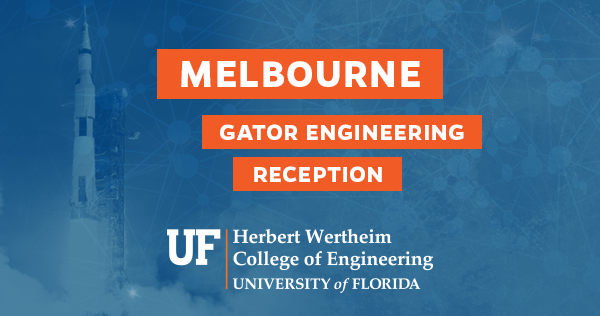
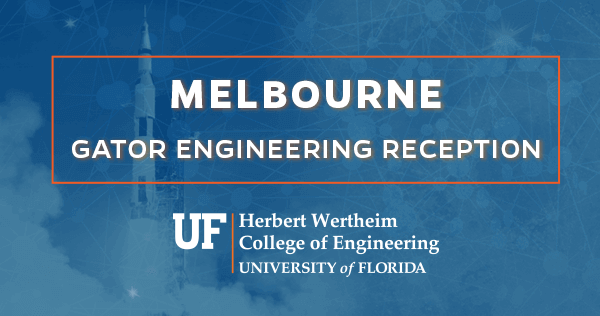
Copy changes (50th anniversary language) and change header image

diff --git a/alumni-engagement/melbourne-reception/invite-inlined.html b/alumni-engagement/melbourne-reception/invite-inlined.html
@@ -267,7 +267,7 @@
 				<table border="0" align="center" cellpadding="0" cellspacing="0" class="container-table" style="font-family: Arial, Helvetica, sans-serif;font-size: 16px;width: 600px;border-collapse: collapse;">
 					<tr>
 						<td class="img" bgcolor="#ffffff" style="padding-top: 0;padding-left: 0;padding-bottom: 0;padding-right: 0;font-family: 'gentona', Helvetica, Arial, sans-serif;font-weight: 300;font-size: 12px;">
-							<img src="https://www.eng.ufl.edu/eblasts/alumni-engagement/melbourne-reception/images/jul-2019-header.png" width="600" height="316" border="0" align="left" class="header-image" alt="Melbourne Gator Engineering Reception" style="height: auto;display: block;margin: 0;padding: 0;border: 0;max-width: 600px;vertical-align: bottom;outline: none;text-decoration: none;image-rendering: crisp-edges;">
+							<img src="https://www.eng.ufl.edu/eblasts/alumni-engagement/melbourne-reception/images/jul-2019-melbourne.png" width="600" height="316" border="0" align="left" class="header-image" alt="Melbourne Gator Engineering Reception" style="height: auto;display: block;margin: 0;padding: 0;border: 0;max-width: 600px;vertical-align: bottom;outline: none;text-decoration: none;image-rendering: crisp-edges;">
 						</td>
 					</tr>
 					<tr>
@@ -281,18 +281,23 @@
 								</tr>
 								<tr>
 									<td class="body" valign="top" style="padding-top: 0;padding-left: 0;padding-bottom: 0;padding-right: 0;font-family: 'gentona', Helvetica, Arial, sans-serif;padding: 9px 0px;font-size: 16px;line-height: 20px;color: #404040;">
-										<p style="margin-top: 0px;margin: 0;padding: 0;">Please join fellow Gator Engineers for a special alumni and friends reception in Melbourne.</p>
+										<p style="margin-top: 0px;margin: 0;padding: 0;">This year, as the world celebrates the 50th anniversary of the first man landing on the moon, we are reminded that it took 400,000 engineers and nearly $24 billion in the 1960s to meet the challenge.</p>
 									</td>
 								</tr>
 								<tr>
 									<td class="body" valign="top" style="padding-top: 0;padding-left: 0;padding-bottom: 0;padding-right: 0;font-family: 'gentona', Helvetica, Arial, sans-serif;padding: 9px 0px;font-size: 16px;line-height: 20px;color: #404040;">
-										<p style="margin-top: 0px;margin: 0;padding: 0;">Dean <strong>Cammy R. Abernathy, Ph.D.</strong>, and engineering department chairs will share key advancements at the college and how, together, we will build, design and lead solutions to transform the future.</p>
+										<p style="margin-top: 0px;margin: 0;padding: 0;">With that same spirit, our engineering faculty, in multidisciplinary collaborations, are working today to solve the challenges of our own moonshots.</p>
 									</td>
 								</tr>
 								<tr>
-									<td class="h2" valign="top" align="center" style="padding-top: 0;padding-left: 0;padding-bottom: 0;padding-right: 0;font-family: 'gentona', Helvetica, Arial, sans-serif;font-weight: normal;letter-spacing: 2px;font-size: 16px;line-height: 24px;text-transform: uppercase;color: #595959;padding: 0.5em 0 0;">
-										<h2 style="font-family: 'gentona', Helvetica, Arial, sans-serif;font-weight: normal;letter-spacing: 2px;font-size: 16px;line-height: 24px;text-transform: uppercase;color: #595959;padding: 0;margin: 0;">&ldquo;Today our concern must be with that future. For the world is changing...I believe that the times require imagination and courage and perseverance. I'm asking each of you to be pioneers towards that New Frontier.&rdquo;<br>
-										&mdash;John F. Kennedy</h2>
+									<td class="body" valign="top" style="padding-top: 0;padding-left: 0;padding-bottom: 0;padding-right: 0;font-family: 'gentona', Helvetica, Arial, sans-serif;padding: 9px 0px;font-size: 16px;line-height: 20px;color: #404040;">
+										<p style="margin-top: 0px;margin: 0;padding: 0;">Dean <strong>Cammy R. Abernathy, Ph.D.</strong>, and <strong>eight engineering department chairs</strong> will share key advancements at the college. We are confident that together, we will lead, design and build solutions for the society of the future.</p>
+									</td>
+								</tr>
+								<tr>
+									<td class="body" valign="top" align="center" style="padding-top: 0;padding-left: 0;padding-bottom: 0;padding-right: 0;font-family: 'gentona', Helvetica, Arial, sans-serif;padding: 9px 0px;font-size: 16px;line-height: 20px;color: #404040;">
+										<p style="margin-top: 0px;margin: 0;padding: 0;">&ldquo;Today our concern must be with that future. For the world is changing...I believe that the times require imagination and courage and perseverance. I'm asking each of you to be pioneers towards that New Frontier.&rdquo;<br>
+										&mdash;John F. Kennedy</p>
 									</td>
 								</tr>
 								<tr>
@@ -307,22 +312,21 @@
 								</tr>
 								<tr>
 									<td class="h3" align="center" style="padding-top: 0;padding-left: 0;padding-bottom: 0;padding-right: 0;font-family: 'gentona', Helvetica, Arial, sans-serif;font-size: 16px;font-weight: normal;line-height: 20px;color: #00529b;letter-spacing: 1px;padding: 0 0 0.25em 0;">
-										<h3 style="font-family: 'gentona', Helvetica, Arial, sans-serif;font-size: 16px;font-weight: normal;line-height: 20px;color: #00529b;letter-spacing: 1px;padding: 0;margin: 0;">Program begins at 7 p.m.</h3>
+										<h3 style="font-family: 'gentona', Helvetica, Arial, sans-serif;font-size: 16px;font-weight: normal;line-height: 20px;color: #00529b;letter-spacing: 1px;padding: 0;margin: 0;">5:30&ndash;7:30 p.m.</h3>
 									</td>
 								</tr>
 								<tr>
 									<td class="body" valign="top" align="center" style="padding-top: 0;padding-left: 0;padding-bottom: 0;padding-right: 0;font-family: 'gentona', Helvetica, Arial, sans-serif;padding: 9px 0px;font-size: 16px;line-height: 20px;color: #404040;"> 
-										<strong>Groundswell<br>
+										<strong>Groundswell Startups<br>
 										2412 Irwin St<br>
 										Melbourne, FL 32901</strong><br>
-										<em>Attire: Gator Business Casual<br>
-										Beverages and hors d&rsquo;oeuvres will be served</em>	
+										<em>Beverages and hors d&rsquo;oeuvres will be served</em>	
 									</td>
 								</tr>
 								<tr>
 									<td class="body" align="center" style="padding-top: 0;padding-left: 0;padding-bottom: 0;padding-right: 0;font-family: 'gentona', Helvetica, Arial, sans-serif;padding: 9px 0px;font-size: 16px;line-height: 20px;color: #404040;">
 										Kindly RSVP by July 3, 2019 to Diane Gagnon<br>
-										(<a href="mailto:dgagnon@eng.ufl.edu?Subject=Reception RSVP" style="color: #00529b;">dgagnon@eng.ufl.edu</a> or 352-294-7944)
+										(<a href="mailto:dgagnon@eng.ufl.edu?Subject=Reception RSVP" style="color: #00529b;">dgagnon@eng.ufl.edu</a> or 352-392-6795)
 									</td>
 								</tr>
 								

diff --git a/alumni-engagement/melbourne-reception/invite.html b/alumni-engagement/melbourne-reception/invite.html
@@ -281,12 +281,17 @@
 								</tr>
 								<tr>
 									<td class="body" valign="top">
-										<p>You are cordially invited to join fellow Gator Engineers for a special alumni and friends reception in Melbourne.</p>
+										<p>This year, as the world celebrates the 50th anniversary of the first man landing on the moon, we are reminded that it took 400,000 engineers and nearly $24 billion in the 1960s to meet the challenge.</p>
 									</td>
 								</tr>
 								<tr>
 									<td class="body" valign="top">
-										<p>Dean <strong>Cammy R. Abernathy, Ph.D.</strong>, and engineering department chairs will share key advancements at the college. We are confident that together, we will lead, design and build solutions for the society of the future.</p>
+										<p>With that same spirit, our engineering faculty, in multidisciplinary collaborations, are working today to solve the challenges of our own moonshots.</p>
+									</td>
+								</tr>
+								<tr>
+									<td class="body" valign="top">
+										<p>Dean <strong>Cammy R. Abernathy, Ph.D.</strong>, and <strong>eight engineering department chairs</strong> will share key advancements at the college. We are confident that together, we will lead, design and build solutions for the society of the future.</p>
 									</td>
 								</tr>
 								<tr>
@@ -307,12 +312,12 @@
 								</tr>
 								<tr>
 									<td class="h3" align="center">
-										<h3>Reception begins at 5:30 p.m.</h3>
+										<h3>5:30&ndash;7:30 p.m.</h3>
 									</td>
 								</tr>
 								<tr>
 									<td class="body" valign="top" align="center"> 
-										<strong>Groundswell<br />
+										<strong>Groundswell Startups<br />
 										2412 Irwin St<br />
 										Melbourne, FL 32901</strong><br />
 										<em>Beverages and hors d&rsquo;oeuvres will be served</em>	

diff --git a/alumni-engagement/melbourne-reception/invite-plaintext.html b/alumni-engagement/melbourne-reception/invite-plaintext.html
@@ -1,23 +1,24 @@
 Join us for a Gator Engineering reception in Melbourne
 
-Please join fellow Gator Engineers for a special alumni and friends reception in Melbourne.
+This year, as the world celebrates the 50th anniversary of the first man landing on the moon, we are reminded that it took 400,000 engineers and nearly $24 billion in the 1960s to meet the challenge.
 
-Dean Cammy R. Abernathy, Ph.D., and engineering department chairs will share key advancements at the college and how, together, we will build, design and lead solutions to transform the future.
+With that same spirit, our engineering faculty, in multidisciplinary collaborations, are working today to solve the challenges of our own moonshots.
+
+Dean Cammy R. Abernathy, Ph.D., and eight engineering department chairs will share key advancements at the college. We are confident that together, we will lead, design and build solutions for the society of the future.
 
 “Today our concern must be with that future. For the world is changing...I believe that the times require imagination and courage and perseverance. I'm asking each of you to be pioneers towards that New Frontier.”
 —John F. Kennedy
 
 Wednesday, July 10, 2019
-Program begins at 7 p.m.
+5:30–7:30 p.m.
 
-Groundswell
+Groundswell Startups
 2412 Irwin St
 Melbourne, FL 32901
+Beverages and hors d’oeuvres will be served	
 
-Attire: Gator Business Casual
-Beverages and hors d’oeuvres will be served
+Kindly RSVP by July 3, 2019 to Diane Gagnon (dgagnon@eng.ufl.edu or 352-392-6795) 
 
-Kindly RSVP by July 3, 2019 to Diane Gagnon (dgagnon@eng.ufl.edu or 352-294-7944) 
  
 https://www.facebook.com/ufwertheim
 https://twitter.com/ufwertheim
